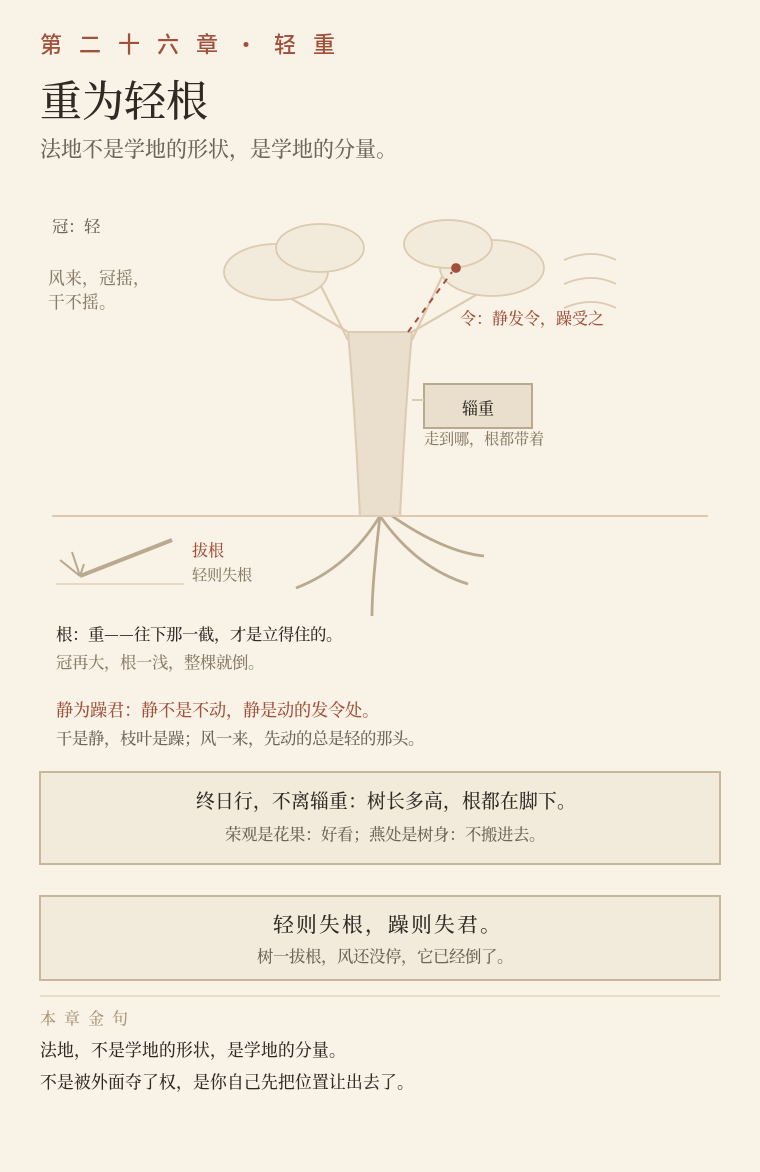
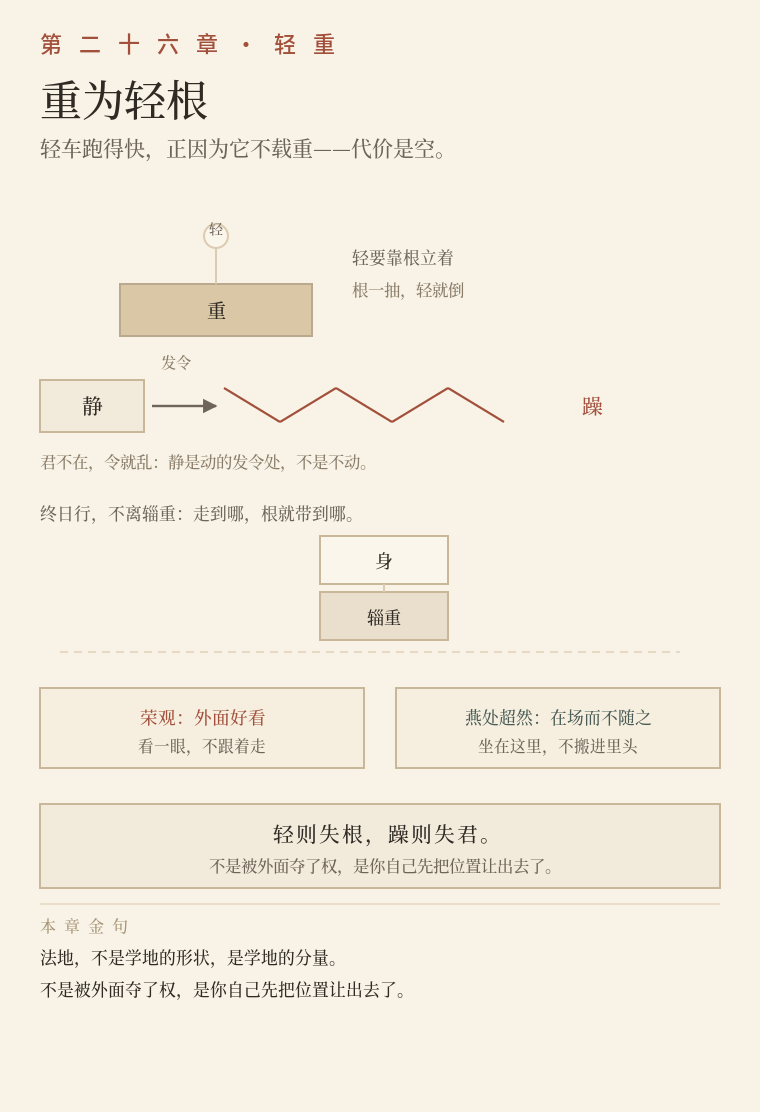
2.5.6 二十六章回退到结构示意版（树形与合并版弃用）

diff --git a/tools/make_yili_svg.py b/tools/make_yili_svg.py
@@ -1635,70 +1635,52 @@ def ch24_qi_zhe_bu_li():
 
 # ============ 第二十六章 · 重为轻根 ============
 def ch26_zhong_wei_qing_gen():
-    W, H = 380, 586
-    body, y = head(W, H, "根重的树，冠再摇也不倒", "第 二 十 六 章 · 轻 重", "重为轻根",
-                   "法地不是学地的形状，是学地的分量。", H)
+    W, H = 380, 556
+    body, y = head(W, H, "法地不是学地的形状，是学地的分量", "第 二 十 六 章 · 轻 重", "重为轻根",
+                   "轻车跑得快，正因为它不载重——代价是空。", H)
     s = [body]
-    gy = y + 158
-    # 地面
-    s.append(f'<line x1="26" y1="{gy}" x2="354" y2="{gy}" stroke="{LINE}" stroke-width="1"/>')
-    # 根：四道往下走
-    roots = [f'M190,{gy} q-16,26 -42,36', f'M190,{gy} q-4,34 -4,50',
-             f'M190,{gy} q18,26 44,34', f'M196,{gy} q26,18 46,20']
-    for r in roots:
-        s.append(f'<path d="{r}" fill="none" stroke="#B9A98F" stroke-width="1.4"/>')
-    # 干：上细下粗
-    s.append(f'<path d="M180,{gy} C178,{gy-40} 176,{gy-70} 174,{gy-92} '
-             f'L206,{gy-92} C204,{gy-70} 202,{gy-40} 200,{gy} Z" '
-             f'fill="#E9DFCC" stroke="{LINE}" stroke-width="1"/>')
-    # 枝
-    br = [(174, gy - 92, 140, gy - 112), (174, gy - 88, 156, gy - 124),
-          (206, gy - 92, 244, gy - 114), (206, gy - 88, 224, gy - 126)]
-    for x1, y1, x2, y2 in br:
-        s.append(f'<line x1="{x1}" y1="{y1}" x2="{x2}" y2="{y2}" stroke="{LINE}" stroke-width="1.1"/>')
-    # 冠：轻
-    for cx, cy, rx, ry in [(138, gy - 122, 26, 14), (160, gy - 134, 22, 12),
-                           (246, gy - 124, 26, 14), (224, gy - 136, 22, 12)]:
-        s.append(f'<ellipse cx="{cx}" cy="{cy}" rx="{rx}" ry="{ry}" fill="#F2EADA" stroke="{LINE}" stroke-width="0.9"/>')
-    # 风
-    for i in range(3):
-        yy = gy - 128 + i * 12
-        s.append(f'<path d="M282,{yy} q14,-6 26,0" fill="none" stroke="{LINE}" stroke-width="0.9"/>')
-    s.append(txt(24, gy - 116, "风来，冠摇，", 8.4, "#8A7C69"))
-    s.append(txt(24, gy - 104, "干不摇。", 8.4, "#8A7C69"))
-    s.append(txt(26, gy - 142, "冠：轻", 8.2, "#6E6459"))
-    # 令：静发令，躁受之
-    s.append(f'<line x1="204" y1="{gy-92}" x2="226" y2="{gy-122}" stroke="{SEAL}" stroke-width="1" stroke-dasharray="3 3"/>')
-    s.append(f'<circle cx="228" cy="{gy-124}" r="2.4" fill="{SEAL}"/>')
-    s.append(txt(230, gy - 96, "令：静发令，躁受之", 8.0, SEAL))
-    # 辎重：绑在干上，走到哪带到哪
-    s.append(box(212, gy - 66, 54, 22, fill="#E9DFCC", stroke="#B9A98F"))
-    s.append(txt(239, gy - 51, "辎重", 8.0, INK, "middle"))
-    s.append(f'<line x1="206" y1="{gy-58}" x2="212" y2="{gy-58}" stroke="{LINE}" stroke-width="1"/>')
-    s.append(txt(212, gy - 36, "走到哪，根都带着", 7.6, "#8A7C69"))
-    # 拔根：小倒树
-    s.append(f'<line x1="28" y1="{gy+34}" x2="92" y2="{gy+34}" stroke="{LINE2}" stroke-width="1"/>')
-    s.append(f'<line x1="40" y1="{gy+30}" x2="86" y2="{gy+12}" stroke="#B9A98F" stroke-width="2"/>')
-    for dx, dy in ((-10, -8), (-4, -12), (2, -6)):
-        s.append(f'<line x1="40" y1="{gy+30}" x2="{40+dx}" y2="{gy+30+dy}" stroke="#B9A98F" stroke-width="1"/>')
-    s.append(txt(96, gy + 20, "拔根", 8.0, SEAL))
-    s.append(txt(96, gy + 32, "轻则失根", 7.6, "#8A7C69"))
-    # 根注
-    s.append(txt(28, gy + 62, "根：重——往下那一截，才是立得住的。", 8.2, INK))
-    s.append(txt(28, gy + 76, "冠再大，根一浅，整棵就倒。", 8.2, "#8A7C69"))
+    # 重为轻根
+    y0 = y + 8
+    s.append(box(60, y0 + 34, 96, 26, fill="#D9C7A6", stroke="#B9A98F"))
+    s.append(txt(108, y0 + 51, "重", 9.6, INK, "middle"))
+    s.append(f'<line x1="108" y1="{y0+34}" x2="108" y2="{y0+14}" stroke="{LINE}" stroke-width="1"/>')
+    s.append(f'<circle cx="108" cy="{y0+10}" r="6" fill="#FBF6EC" stroke="{LINE}" stroke-width="1"/>')
+    s.append(txt(108, y0 + 9, "轻", 7, "#6E6459", "middle"))
+    s.append(txt(176, y0 + 24, "轻要靠根立着", 8.4, "#6E6459"))
+    s.append(txt(176, y0 + 40, "根一抽，轻就倒", 8.2, "#8A7C69"))
     # 静为躁君
-    s.append(txt(28, gy + 100, "静为躁君：静不是不动，静是动的发令处。", 8.6, SEAL))
-    s.append(txt(28, gy + 114, "干是静，枝叶是躁；风一来，先动的总是轻的那头。", 8.2, "#6E6459"))
-    # 收
-    yc = gy + 128
-    s.append(box(20, yc, 340, 46, fill="#F2EADA", stroke="#C9B79A"))
-    s.append(txt(190, yc + 18, "终日行，不离辎重：树长多高，根都在脚下。", 9.4, INK, "middle"))
-    s.append(txt(190, yc + 34, "荣观是花果：好看；燕处是树身：不搬进去。", 8.2, "#6E6459", "middle"))
-    yc2 = yc + 62
-    s.append(box(20, yc2, 340, 42, fill="#F2EADA", stroke="#C9B79A"))
-    s.append(txt(190, yc2 + 18, "轻则失根，躁则失君。", 10.4, INK, "middle", spacing="1"))
-    s.append(txt(190, yc2 + 33, "树一拔根，风还没停，它已经倒了。", 8.2, "#6E6459", "middle"))
-    s.append(gold(yc2 + 50, "ch26"))
+    y1 = y0 + 82
+    s.append(box(20, y1, 52, 26, fill="#F2EADA", stroke="#C9B79A"))
+    s.append(txt(46, y1 + 17, "静", 10.4, INK, "middle", spacing="1"))
+    s.append(arrow(76, y1 + 13, 108, y1 + 13, color="#6E6459", head="arr"))
+    s.append(txt(88, y1 - 6, "发令", 7.6, "#8A7C69", "middle"))
+    zz = [(112, y1 + 4), (140, y1 + 21), (168, y1 + 4), (196, y1 + 21), (224, y1 + 4), (252, y1 + 21)]
+    for i in range(len(zz) - 1):
+        s.append(f'<line x1="{zz[i][0]}" y1="{zz[i][1]}" x2="{zz[i+1][0]}" y2="{zz[i+1][1]}" stroke="{SEAL}" stroke-width="1.1"/>')
+    s.append(txt(296, y1 + 17, "躁", 10.4, SEAL, "middle", spacing="1"))
+    s.append(txt(20, y1 + 44, "君不在，令就乱：静是动的发令处，不是不动。", 8.2, "#8A7C69"))
+    # 终日行不离辎重
+    y2 = y1 + 66
+    s.append(txt(20, y2 + 4, "终日行，不离辎重：走到哪，根就带到哪。", 8.4, "#6E6459"))
+    s.append(box(160, y2 + 12, 64, 24, fill="#FBF6EC", stroke="#C9B79A"))
+    s.append(txt(192, y2 + 28, "身", 9, INK, "middle"))
+    s.append(box(160, y2 + 40, 64, 24, fill="#E9DFCC", stroke="#C9B79A"))
+    s.append(txt(192, y2 + 56, "辎重", 8.6, INK, "middle"))
+    s.append(f'<line x1="192" y1="{y2+36}" x2="192" y2="{y2+40}" stroke="{LINE}" stroke-width="1"/>')
+    s.append(f'<line x1="30" y1="{y2+70}" x2="340" y2="{y2+70}" stroke="{LINE2}" stroke-width="1" stroke-dasharray="4 3"/>')
+    # 荣观 / 燕处
+    y3 = y2 + 88
+    s.append(box(20, y3, 162, 40, fill="#F6EFE0", stroke="#C9B79A"))
+    s.append(txt(101, y3 + 18, "荣观：外面好看", 8.8, SEAL, "middle"))
+    s.append(txt(101, y3 + 32, "看一眼，不跟着走", 7.8, "#6E6459", "middle"))
+    s.append(box(198, y3, 162, 40, fill="#F6EFE0", stroke="#C9B79A"))
+    s.append(txt(279, y3 + 18, "燕处超然：在场而不随之", 8.4, GREEN, "middle"))
+    s.append(txt(279, y3 + 32, "坐在这里，不搬进里头", 7.8, "#6E6459", "middle"))
+    yc = y3 + 58
+    s.append(box(20, yc, 340, 42, fill="#F2EADA", stroke="#C9B79A"))
+    s.append(txt(190, yc + 19, "轻则失根，躁则失君。", 10.4, INK, "middle", spacing="1"))
+    s.append(txt(190, yc + 34, "不是被外面夺了权，是你自己先把位置让出去了。", 8.2, "#6E6459", "middle"))
+    s.append(gold(yc + 50, "ch26"))
     s.append('</svg>')
     return "\n".join(s)
 

diff --git a/book/义理图-体例.md b/book/义理图-体例.md
@@ -71,7 +71,7 @@
 | 二十一 | ch21-kong-de | 由粗到细 | 象→物→精→信四级，包在「惚兮恍兮」虚线框内，收「以阅众甫」 |
 | 十一 | ch11-li-yong | 利与用 | 三容器并置，各标「有·立界／无·让位」，收「有之以为利，无之以为用」 |
 | 二十五 | ch25-dao-fa | 道法自然 | 名（道大逝远反）→ 虚圈「？」；四大竖列；四法横带；逝远反圆环，收「上面没有更高的东西」 |
-| 二十六 | ch26-zhong-wei-qing-gen | 重为轻根 | 一棵树为主：根重、干静、冠轻、风只摇冠；干上绑辎重、虚线「令」从干到冠、左下小倒树示「拔根」；两版合一 |
+| 二十六 | ch26-zhong-wei-qing-gen | 重为轻根 | 重块托轻物；静→躁折线（静是发令处）；身与辎重随行；荣观／燕处两格 |
 | 二十七 | ch27-shan-xing-wu-zhe-ji | 善行无辙迹 | 五「善」各对一「不用」；无弃人／无弃物两格；师／资两格，收「迷在太会分」 |
 | 二十三 | ch23-xi-yan-zi-ran | 希言自然 | 风雨一框证「不久」，下三同（道／德／失），末以空「言」框点「话后面没有人」 |
 | 二十四 | ch24-qi-zhe-bu-li | 企者不立 | 左企（脚尖点地、高度虚尺）／右跨（步幅虚线）；四句「自…→不…」两列；末余食赘行两格 |
